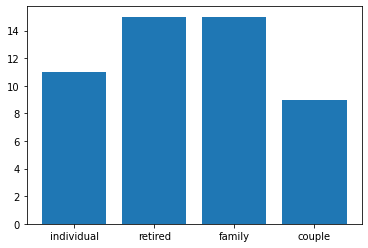
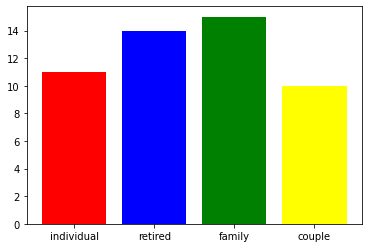
Just an update

diff --git a/classes.py b/classes.py
@@ -1,10 +1,12 @@
 import matplotlib.pyplot as plt
+# from mesa import Agent 
 import numpy as np
 import random
 
-#%% Household class
+#%% Household class - this part is the only one used for household agent, below 
+# are some examples and visualizations
 
-class Household:
+class Household():
     def __init__(self, household_type, perception, knowledge):
         # perception is separation, knowledge is how well we separate
         self.type = household_type
@@ -32,6 +34,8 @@ class Household:
         # perception as we use it here is equal to plastic fraction
         self.plastic_waste = self.base_waste(year)*self.perception 
     
+# create n_households Household objects and assign a base and plastic waste to each of them    
+    
 n_households = 50
 year_range = 200
 household_types = ['individual', 'retired', 'family', 'couple']
@@ -45,7 +49,7 @@ for i in range(n_households):
         household_list[-1].plastic_waste_assign(yr)
         plastic_waste_dict[str(i)].append(household_list[-1].plastic_waste)
         
-#%%
+#%% color assignment for visualization below
         
 def assign_color(household_type):
     if household_type == 'individual':
@@ -57,7 +61,7 @@ def assign_color(household_type):
     elif household_type == 'couple':
         return 'yellow'
     
-#%%
+#%% household type distribution
 
 types = []
 for household in household_list:
@@ -65,13 +69,13 @@ for household in household_list:
 heights = [types.count(household_types[0]), types.count(household_types[1]),
            types.count(household_types[2]), types.count(household_types[3])]
 fig, ax = plt.subplots(1)
-ax.bar(np.arange(0, len(household_types)), heights, align = 'center')
+ax.bar(np.arange(0, len(household_types)), heights, align = 'center', color = ['red', 'blue', 'green', 'yellow'])
 plt.xticks(np.arange(0, len(household_types)), household_types)
 plt.savefig('images/household_type_distribution.png', bbox_inches = 'tight')
 plt.show()
 plt.close()
 
-#%%
+#%% plastic waste over time for all households
 
 from matplotlib.lines import Line2D
     

diff --git a/abm_main.py b/abm_main.py
@@ -1,0 +1,10 @@
+from classes import Household
+# from classes import Municipality
+# from classes import RecyclingCompany
+
+from mesa.datacollection import DataCollector
+from mesa.batchrunner import BatchRunner
+from mesa.time import RandomActivation
+from mesa import Model, Agent
+from mesa.space import Grid
+
